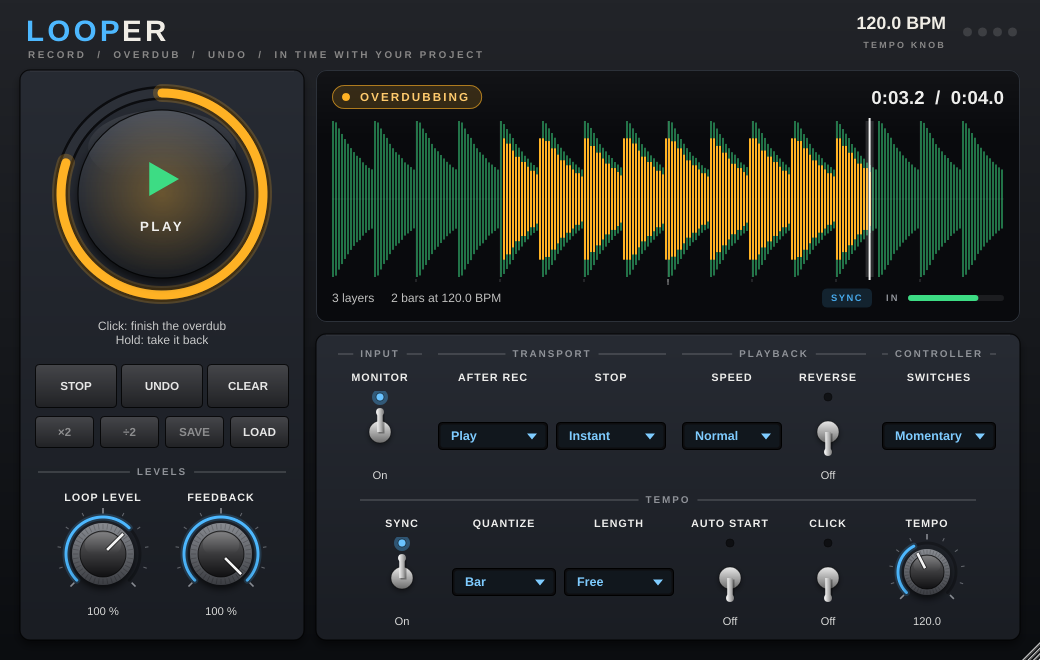
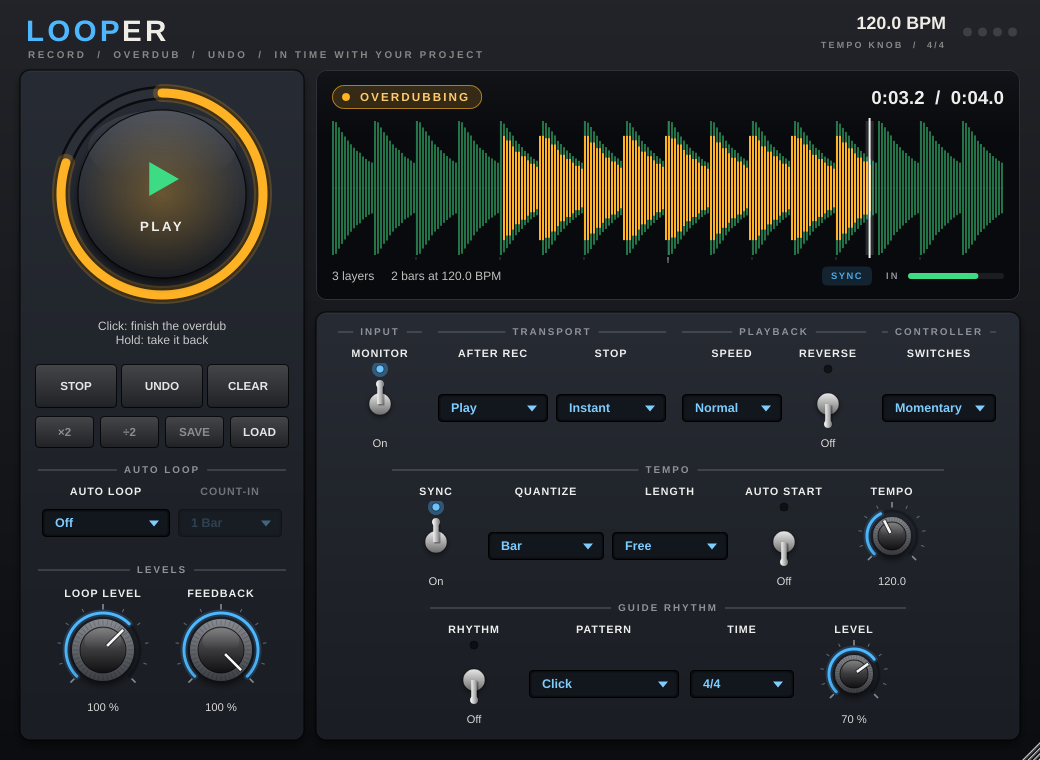
Document the auto loop and the guide rhythm
The Looper manual gets an auto loop section (count-in, recording, layers,
taking over, how it keeps to the host's bars) and a guide rhythm section
(when it plays, every pattern, time signatures), with pictures of a
count-in and of an auto loop recording its second layer. The settings
table, the display description and the tips follow the new controls, and
the other pictures are updated for the taller window.

README, DAW guide (one footswitch press starts a whole auto loop), build
guide and developer guide are brought up to date.

Claude-Session: https://claude.ai/code/session_01TsyUxRTk9Nor3A9GWYh8nm

diff --git a/docs/plugins/Looper.md b/docs/plugins/Looper.md
@@ -5,8 +5,9 @@
 Record a phrase, let it repeat, and play over it: layer after layer, with
 undo. The Looper works like the loopers guitarists know from the floor, plus
 what software does better: a waveform you can see, loops that lock to your
-project's tempo, exact lengths in beats and bars, and the loop is **saved
-with your project**.
+project's tempo, exact lengths in beats and bars, a guide rhythm (clicks or
+drum grooves), an **auto loop** that counts you in and records layer after
+layer without another click, and the loop is **saved with your project**.
 
 - [Quick start](#quick-start)
 - [The big button](#the-big-button)
@@ -14,6 +15,8 @@ with your project**.
 - [The display](#the-display)
 - [Settings](#settings)
 - [In time with your project](#in-time-with-your-project)
+- [Auto loop: hands on the guitar](#auto-loop-hands-on-the-guitar)
+- [The guide rhythm](#the-guide-rhythm)
 - [Your loop is saved with the project](#your-loop-is-saved-with-the-project)
 - [Audio files](#audio-files)
 - [Foot controllers and automation](#foot-controllers-and-automation)
@@ -35,7 +38,10 @@ with your project**.
 > Timing the two clicks is the whole art of looping: click **on** the first
 > beat of the phrase, and again **on** the first beat of the repeat, as if you
 > were tapping your foot. If you'd rather let the Looper cut the loop for
-> you, see [In time with your project](#in-time-with-your-project).
+> you, see [In time with your project](#in-time-with-your-project), or set
+> **Auto Loop** to *1 Layer* or more: one click, a count-in, and the Looper
+> records and layers in time by itself
+> ([Auto loop](#auto-loop-hands-on-the-guitar)).
 
 ## The big button
 
@@ -51,6 +57,7 @@ next click does. The ring around it shows where the loop is.
 | **Overdubbing** | Finish the overdub | Finish the overdub and stop | Finish and take this overdub back |
 | **Stopped** | Play from the start | | Clear the loop |
 | **Armed** (waiting for the bar or your first note) | Cancel | | |
+| **Counting in** (auto loop) | Cancel | | |
 
 <p align="center"><img src="../assets/looper-recording.png" width="100%" alt="OAP Looper while recording: the waveform grows in red, and the big button says that the next click plays the loop"></p>
 
@@ -76,19 +83,23 @@ below it permanent.
 
 <p align="center"><img src="../assets/looper-overdub.png" width="100%" alt="OAP Looper while overdubbing: the new layer is drawn in amber over the green loop"></p>
 
-- **Top left:** what the looper is doing right now. **Top right:** the play
-  position and the loop's length.
+- **Top left:** what the looper is doing right now (during an auto loop:
+  *COUNT-IN*, or which automatic layer is being recorded). **Top right:** the
+  play position and the loop's length.
 - **Waveform:** the loop, with the play position as a white line. While you
   record it grows in red; while you overdub, what you are adding appears in
   amber on top of the loop. Small ticks under the waveform mark beats and
   bars when the loop has a tempo.
+- **During a count-in:** the beats still to go, in big numbers (also in the
+  middle of the big button, whose ring fills up as the count goes).
 - **Bottom:** the number of layers, the loop's length in bars and its tempo,
-  tags for what is switched on (Sync, half or double speed, reverse), and an
-  input level meter: if it doesn't move when you play, the Looper isn't
-  getting your guitar.
-- **Top right of the window:** the tempo the Looper is using and where it
-  comes from (your DAW, or the Looper's own **Tempo** knob), and one dot per
-  beat of the bar while the DAW is playing or the click is on.
+  tags for what is switched on (Auto, the rhythm's pattern, Sync, half or
+  double speed, reverse), and an input level meter: if it doesn't move when
+  you play, the Looper isn't getting your guitar.
+- **Top right of the window:** the tempo and time signature the Looper is
+  using and where the tempo comes from (your DAW, or the Looper's own
+  **Tempo** knob), and one dot per counted beat of the bar while the DAW is
+  playing, the rhythm plays or an auto loop runs.
 
 ## Settings
 
@@ -104,10 +115,15 @@ below it permanent.
 | **Switches** | For foot controllers: see [Foot controllers and automation](#foot-controllers-and-automation). |
 | **Sync** | Works with the tempo: see the next section. On by default. |
 | **Quantize** | With Sync on: a recording starts and ends, and a stopped loop starts, on the next **Beat** or **Bar** - or right away (**Off**). |
-| **Length** | With Sync on: **Free** (you close the loop), or a fixed length from **1 Beat** to **16 Bars**. |
+| **Length** | With Sync on, or for an auto loop: **Free** (you close the loop; an auto loop records 4 bars), or a fixed length from **1 Beat** to **16 Bars**. |
 | **Auto Start** | Recording waits for your first note (anything louder than about -40 dB, so keep the strings quiet while you get ready). |
-| **Click** | A metronome in the Looper's output. It is not recorded into the loop. |
 | **Tempo** | The Looper's own tempo, 40-240 BPM, used when the host doesn't give one (the standalone app). In a DAW the DAW's tempo is used and this knob is greyed out. |
+| **Auto Loop** | **Off**, or how many layers an auto loop records: **1 Layer** (record, then play) to **4 Layers**. See [Auto loop](#auto-loop-hands-on-the-guitar). |
+| **Count-in** | How many bars an auto loop counts in before it records: **Off**, **1 Bar** or **2 Bars**. |
+| **Rhythm** | Plays the guide rhythm all the time. Without it, the rhythm only plays through an auto loop. See [The guide rhythm](#the-guide-rhythm). |
+| **Pattern** | What the rhythm plays: a click, or a drum groove. |
+| **Time** | The time signature, used when the host doesn't give one (the standalone app): 4/4, 3/4, 2/4, 5/4, 6/8, 7/8, 9/8 or 12/8. |
+| **Level** (rhythm) | How loud the rhythm plays, 0-100 %. |
 
 Double-click a knob to reset it, hold **Shift** while dragging for fine
 control, and drag the window's corner to resize it.
@@ -117,7 +133,7 @@ control, and drag the window's corner to resize it.
 With **Sync** on, the Looper knows about tempo. What that means depends on
 whether a beat can be heard:
 
-**While your DAW is playing, or the Click is on:**
+**While your DAW is playing, or the Rhythm is on:**
 
 - Actions wait for the grid. Click *record* a little early and the Looper is
   **armed** (the display blinks) until the next bar line; click to close the
@@ -127,7 +143,7 @@ whether a beat can be heard:
 - A stopped loop starts on the next bar too, which is also how you line a
   loop up with the DAW again after stopping the transport.
 
-**While the DAW is stopped and the Click is off:** there is no grid to wait
+**While the DAW is stopped and the Rhythm is off:** there is no grid to wait
 for, so every click acts immediately, exactly like a pedal.
 
 **In both cases:**
@@ -148,12 +164,71 @@ Useful combinations:
 | You want | Set |
 | --- | --- |
 | A loop of exactly four bars, in time with the drums in your DAW | Sync on, Quantize *Bar*, Length *4 Bars*. Start the DAW, click once. |
-| To practise with a click, no DAW | The standalone app: Click on, set **Tempo**, Length *Free* or a number of bars. |
+| To practise with a click or a groove, no DAW | The standalone app: **Rhythm** on, pick a **Pattern**, set **Tempo**, Length *Free* or a number of bars. Or use an auto loop. |
 | Hands on the guitar when the recording starts | **Auto Start** on: click, get ready, play. The first note starts the recording (and isn't cut off). |
 | A plain looper that ignores tempo completely | Sync off. |
 
 The loop is not chained to the DAW's transport: it keeps playing when you
 stop the DAW, and starting the DAW doesn't restart it.
+
+## Auto loop: hands on the guitar
+
+<p align="center"><img src="../assets/looper-auto.png" width="100%" alt="OAP Looper recording the second of three layers of an auto loop, with the Rock groove"></p>
+
+Set **Auto Loop** to the number of layers you want, and one click does the
+rest:
+
+1. **Count-in.** The Looper counts one bar (or two, or none: **Count-in**),
+   with clicks on the beats. The display shows the beats still to go.
+2. **Recording.** On the bar line, recording starts, with the guide rhythm
+   keeping time. After the **Length** (four bars when Length is *Free*), the
+   loop closes by itself, exactly on the bar line.
+3. **More layers.** With *2 Layers* or more, the Looper goes straight on
+   recording on top of the loop: each layer lasts exactly one turn of the
+   loop. Play the chords the first time round, the bass line the second
+   time, a melody the third.
+4. **Play.** Then the loop plays on its own and the rhythm stops (unless
+   **Rhythm** is on).
+
+Click at any moment to take over: a click during the count-in cancels it,
+during the recording it closes the loop, during an automatic layer it
+finishes that layer, and from then on the Looper waits for you again. Undo,
+stop and clear work as always; undo takes back the last layer.
+
+When nothing keeps time yet (the DAW is stopped and the rhythm is off), the
+count-in starts right at your click. While the DAW plays or the rhythm is on,
+the Looper keeps to their bars: it starts recording on the first bar line
+that leaves a whole count-in. If you move the DAW's playhead during the
+count-in, it starts counting again from there.
+
+The auto loop works with **Sync** on or off: it always records whole bars at
+the current tempo. With Sync off, the loop just won't follow tempo changes
+later.
+
+<p align="center"><img src="../assets/looper-countin.png" width="100%" alt="OAP Looper counting in: two beats to go before it records two bars"></p>
+
+## The guide rhythm
+
+The rhythm plays in the Looper's output, never into the loop, so you can
+switch it off later and the loop is just your playing. It follows the
+tempo and the bars of your DAW (or the Looper's own **Tempo** and **Time**),
+and keeps time while you record:
+
+- **always**, when **Rhythm** is on;
+- **through an auto loop** otherwise: clicks during the count-in, then the
+  pattern while the recording and the automatic layers run.
+
+| Pattern | What it plays |
+| --- | --- |
+| **Click** | A click on every beat, the first of the bar higher. In 6/8, 9/8 and 12/8 the beats come in threes and the first of each three is stronger; 5/8 and 7/8 are grouped 2+3 and 2+2+3. |
+| **Click 8ths / Triplets / 16ths** | The beats plus softer clicks on the eighths, triplets or sixteenths. |
+| **Click Shuffle** | The beats plus the swung eighth: practise a shuffle feel. |
+| **Rock, Pop, Funk, Ballad, Disco, Shuffle, Reggae, Metal, Bossa Nova** | A simple drum groove (kick, snare, hi-hats, rim): a drummer to play along with, not a drum machine. |
+
+The drum grooves are written in 4/4; in other time signatures they are cut at
+the bar line (3/4) or repeat their first beats (5/4). For odd time
+signatures the clicks are the better guide. All sounds are synthesised in
+the plugin; nothing is loaded from disk.
 
 ## Your loop is saved with the project
 
@@ -223,6 +298,8 @@ mapped and automated too.
 
 ## Good to know
 
+- **Auto loop and Auto Start** don't mix: during an auto loop the count-in
+  decides when the recording starts, and Auto Start is ignored.
 - **Longest loop:** five minutes. A recording that reaches the limit closes
   there and plays. Loops shorter than a tenth of a second are discarded.
 - **Before or after the amp?** After the amp is the usual place (see

diff --git a/README.md b/README.md
@@ -218,7 +218,9 @@ Pick any pedal for each of eight slots, reorder them with **<** and **>**, switc
 Click the big button to record, click again and the phrase repeats, click again to play on top of it. Made for the mouse, with everything a looper needs for real playing:
 
 - **Overdub, undo and redo**, double-click to stop, hold to undo: the big button works like a looper's footswitch.
-- **In time with your project:** start and stop on the bar line while your DAW plays, record exact lengths (*2 beats*, *4 bars*…) that close by themselves, follow tempo changes, auto-start on your first note, and a click.
+- **In time with your project:** start and stop on the bar line while your DAW plays, record exact lengths (*2 beats*, *4 bars*…) that close by themselves, follow tempo changes, auto-start on your first note.
+- **Auto loop, hands free:** one click, a count-in, and the Looper records a fixed length and then up to three more layers one loop cycle each, by itself.
+- **A guide rhythm:** clicks (also 8ths, triplets, 16ths, shuffle, in any time signature) or simple drum grooves (rock, pop, funk, ballad, disco, shuffle, reggae, metal, bossa nova), never recorded into the loop.
 - **Your loop is saved with the project**, and as a WAV file whenever you like. Drop an audio file on the window to loop it.
 - **Half speed, double speed, reverse**, overdub feedback for loops that evolve, three ways to stop, and ×2 to make room for a longer layer.
 - Switch parameters for **foot controllers**. Also a standalone app for practising.
@@ -251,7 +253,7 @@ Click the big button to record, click again and the phrase repeats, click again 
 | Middle-Eastern melodies | 🏺 Pharaoh Amp / 🕌 Persian Amp | single-string slides / tremolo picking |
 | Worship, ambient swells | ⛪ Choir Amp | **Choir** 8, volume swells |
 | Your own rig | 🧩 Pedalboard → any amp | the default board |
-| Practising solos over your own chords, building songs in layers | 🔁 Looper, after the amp | click the big button, play, click again |
+| Practising solos over your own chords, building songs in layers | 🔁 Looper, after the amp | click the big button, play, click again; or **Auto Loop** *3 Layers* with the *Rock* pattern |
 
 </details>
 
@@ -723,7 +725,7 @@ flowchart LR
 - **Low latency:** 6 samples for the amps, up to about 1 ms for the oversampled drive pedals, always reported to your DAW for compensation.
 - **Light on the CPU** (one core at 48 kHz, measured on an x86 machine): amps 1.5-5 %, effect amps 2-8 %, pedals 0.05-3.5 %.
 - **A looper that never makes the audio wait:** the loop's memory is prepared ahead of the recording by another thread, undo copies only what an overdub touches, and saving, loading and resizing the loop talk to the audio thread without locks.
-- **Tested:** about 1,500 automated checks. DSP: stability at 44.1-192 kHz with random automation, silence, aliasing, levels, impulse responses, every effect amp knob. Looper: sample-exact playback, undo, tempo sync, and other threads working on the loop while audio runs (also under thread and memory sanitizers). Plugin layer: the Looper's session state, audio files, host tempo and mapped switches. And every plugin passes [pluginval](https://github.com/Tracktion/pluginval) at its strictest level.
+- **Tested:** about 1,600 automated checks. DSP: stability at 44.1-192 kHz with random automation, silence, aliasing, levels, impulse responses, every effect amp knob. Looper: sample-exact playback, undo, tempo sync, the auto loop and the rhythms, and other threads working on the loop while audio runs (also under thread and memory sanitizers). Plugin layer: the Looper's session state, audio files, host tempo, auto loop and mapped switches. And every plugin passes [pluginval](https://github.com/Tracktion/pluginval) at its strictest level.
 
 Want to dig deeper? 📚 [Plugin manuals](docs/plugins/) · [Using the plugins in your DAW](docs/DAWS.md) · [Building on every platform](docs/BUILDING.md) · [Developer guide](docs/DEVELOPMENT.md)
 

diff --git a/docs/DEVELOPMENT.md b/docs/DEVELOPMENT.md
@@ -28,7 +28,8 @@ FreeAudioFX/
 │   │   ├── EffectAmpEngine.*   # the signal path built from a model
 │   │   └── EffectAmp{Processor,Editor}.*  # generic plugin wrapper and faceplate
 │   ├── looper/                 # looper (plain C++17, no JUCE)
-│   │   ├── LooperEngine.*      # record, play, overdub, undo, tempo sync; lock-free towards other threads
+│   │   ├── LooperEngine.*      # record, play, overdub, undo, tempo sync, auto loop; lock-free towards other threads
+│   │   ├── Rhythm.*            # the guide rhythm: clicks and drum grooves, synthesised
 │   │   └── LoopUtils.h         # sample-rate conversion of a loop, waveform overview
 │   ├── art/                    # one SVG artwork per amp (generated, embedded into the plugins)
 │   ├── plugin/                 # AmpProcessorBase, PedalProcessor, PedalboardProcessor, LooperProcessor
@@ -142,7 +143,10 @@ threads all the time, so its parts are split strictly by thread:
 - **`looper::LooperEngine`** (plain C++17) is everything the audio thread
   does: the state machine behind the switches (click, double-click, hold),
   recording, the varispeed play and record heads, copy-on-write undo, the
-  tempo grid. Its audio-thread functions never allocate, lock or wait.
+  tempo grid, the auto loop (count-in, fixed length, one automatic layer per
+  loop cycle) and the guide rhythm (`looper::RhythmGuide`, which turns the
+  beat grid into clicks and drum hits). Its audio-thread functions never
+  allocate, lock or wait.
   Other threads use `serviceMemory()` (hands over loop memory ahead of the
   recording) and `copyLoop()` / `loadLoop()` / `doubleLength()` /
   `halveLength()`, which ask the audio thread for a *hold* through a few
@@ -214,15 +218,17 @@ threads all the time, so its parts are split strictly by thread:
   calibrated levels, FX knobs, gates),
 - `LooperTests.cpp`: the looper engine (sample-exact playback and loop point,
   overdub layers, undo/redo, the switch gestures, stop modes, speed and
-  reverse, tempo sync, memory limits, and copying / loading / resizing the
-  loop from another thread while audio runs, starts and stops) and the loop
+  reverse, tempo sync, the auto loop and count-in, every rhythm pattern and
+  time signature, memory limits, and copying / loading / resizing the loop
+  from another thread while audio runs, starts and stops) and the loop
   helpers. `oap_dsp_tests --only looper` runs just these.
 
 `oap_plugin_tests` (`PluginTests.cpp`) tests the plugin layer: it runs the
 Looper like a host does, with its audio on a separate thread, and checks the
 session state (the loop is saved and restored exactly, also at awkward
-moments and from broken data), sample-rate changes, audio files, host tempo,
-switches mapped to parameters, bus layouts and the editor.
+moments and from broken data), sample-rate changes, audio files, host tempo
+and time signature, the auto loop, switches mapped to parameters, bus
+layouts and the editor.
 
 Run them after every change to the DSP or to a processor. For host-level testing,
 [pluginval](https://github.com/Tracktion/pluginval) is recommended:

diff --git a/docs/BUILDING.md b/docs/BUILDING.md
@@ -189,19 +189,20 @@ cmake --build build --target oap_dsp_tests oap_plugin_tests
 ./build/tests/oap_plugin_tests_artefacts/Release/oap_plugin_tests
 ```
 
-`oap_dsp_tests` runs about 1,400 checks in a couple of minutes: every amp, effect
+`oap_dsp_tests` runs about 1,500 checks in a couple of minutes: every amp, effect
 amp and pedal at several sample rates and block sizes with random automation,
 decay to silence, output levels, aliasing, cabinets and impulse responses,
 gates and CPU use, and the looper engine (sample-exact playback, undo, tempo
-sync, other threads working on the loop while audio runs). Add
+sync, the auto loop and the rhythms, other threads working on the loop while
+audio runs). Add
 `--render demos` to also write example WAV files (a synthetic guitar played
 through the Drive and Clean amps) into a `demos/` folder, or `--only looper`
 to run just the looper's tests.
 
 `oap_plugin_tests` runs the Looper plugin the way a host does, audio on one
 thread and everything else on another: the loop saved with the session and
-restored, sample-rate changes, audio files, host tempo, switches mapped to
-parameters, and the editor. It takes a few seconds.
+restored, sample-rate changes, audio files, host tempo, the auto loop,
+switches mapped to parameters, and the editor. It takes a few seconds.
 
 With CTest: `ctest --test-dir build`.
 

diff --git a/docs/DAWS.md b/docs/DAWS.md
@@ -87,7 +87,9 @@ automate them:
 Then set the Looper's **Switches** control to match your controller:
 **Momentary** if the parameter should be on only while your foot is down
 (click, double-click and hold then work like with the mouse), or **Latching**
-if your controller flips it with every press. Details in the
+if your controller flips it with every press. With **Auto Loop** on, a
+single press of the footswitch starts a whole auto loop: count-in,
+recording and layers. Details in the
 [Looper manual](plugins/Looper.md#foot-controllers-and-automation).
 
 ## Standalone apps
